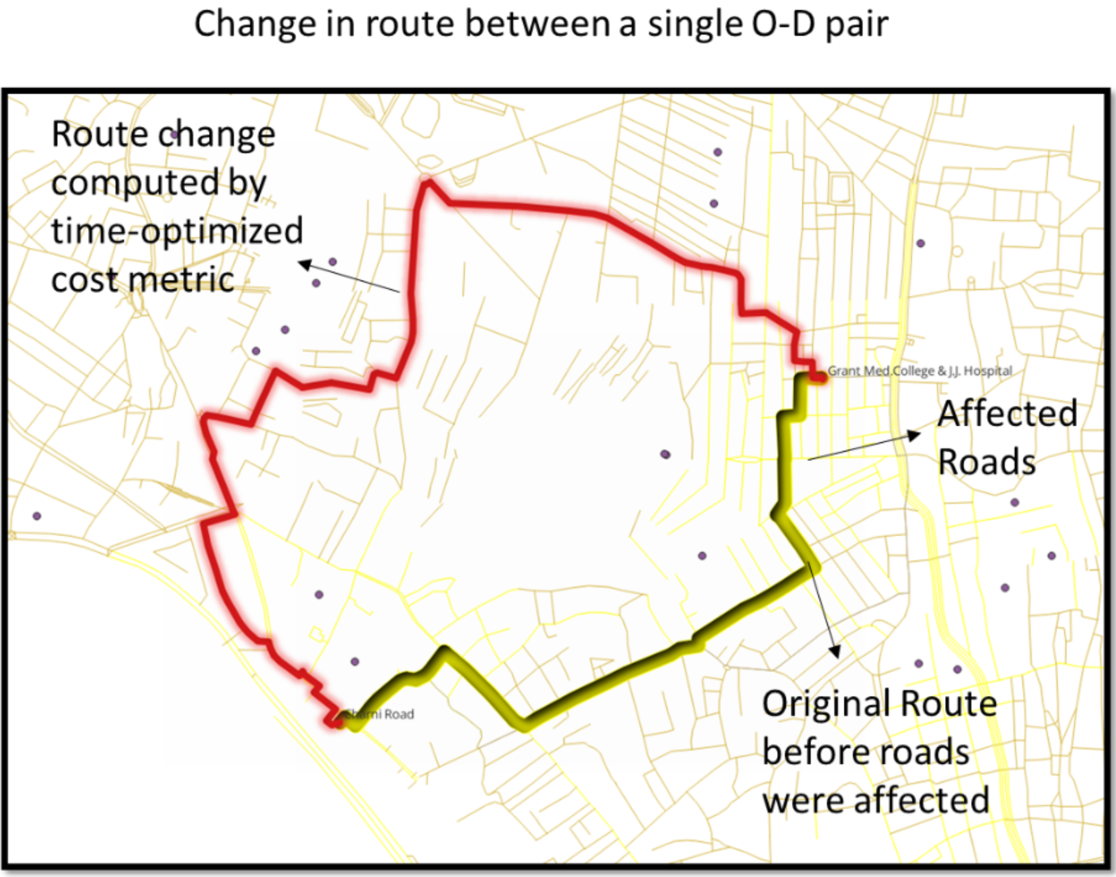
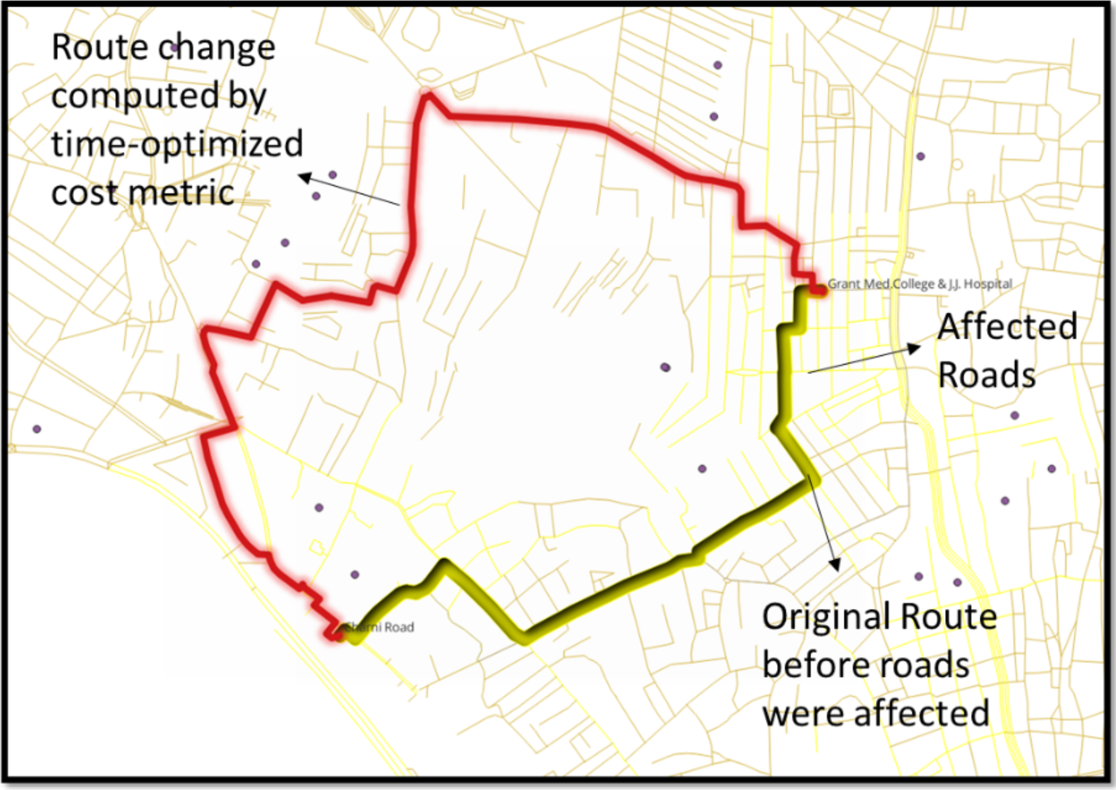
updated projects section

diff --git a/src/components/InfrastructureSection.tsx b/src/components/InfrastructureSection.tsx
@@ -1,8 +1,8 @@
 "use client";
 
 import { useState, useEffect } from "react";
-import { motion } from "framer-motion";
-import { Check, ChevronLeft, ChevronRight } from "lucide-react";
+import { motion, AnimatePresence } from "framer-motion";
+import { Check, ChevronLeft, ChevronRight, X } from "lucide-react";
 import spatial_sentimentImg from "@/assets/Spatial_Sentiment_Analysis.jpg";
 import SARImg from "@/assets/SAR_based_inundation_mapping.png";
 import LanduseImg from "@/assets/LanduseImpacts_ChangeDetection.png";
@@ -18,36 +18,36 @@ const features = [
 
 const products = [
   {
-    title: "Spatial Sentiment Analysis",
+    title: "Sentiment analysis for hazard detection",
     description:
       "Geospatial NLP and sentiment mapping for supply chain and climate signals.",
     image: spatial_sentimentImg,
   },
   {
-    title: "SAR Based Inundation Mapping",
+    title: "Flood mapping using satellite data",
     description:
-      "SAR Based Inundation Mapping",
+      "Flood mapping using satellite data",
     image: SARImg,
   },
   {
-    title: "Landuse Impacts-Change Detection",
+    title: "Land use change detection",
     description:
-      "Landuse Impacts-Change Detection",
+      "Land use change detection",
     image: LanduseImg,
   },
   {
-    title: "Vulnerability Analysis",
-    description: "Vulnerability Analysis",
+    title: "Risk and vulnerability mapping",
+    description: "Risk and vulnerability mapping",
     image: vulnerabilityImg,
   },
   {
-    title: "Network Analysis",
+    title: "Network analysis for supply chain and transportation",
     description: "Network Analysis",
     image: networkanalysisImg,
   },
   {
-    title: "Food Emotion Analysis",
-    description: "Food Emotion Analysis",
+    title: "Food emotion & customer feedback analytics",
+    description: "Food emotion & customer feedback analytics",
     image: foodsentimentImg,
   }
   
@@ -59,6 +59,7 @@ const MOBILE_BREAKPOINT = 768;
 const InfrastructureSection = () => {
   const [slideIndex, setSlideIndex] = useState(0);
   const [slidesToShow, setSlidesToShow] = useState(1);
+  const [openModalIndex, setOpenModalIndex] = useState<number | null>(null);
 
   useEffect(() => {
     const mq = window.matchMedia(`(min-width: ${MOBILE_BREAKPOINT}px)`);
@@ -145,79 +146,132 @@ const InfrastructureSection = () => {
         </div>
       </div>
 
-      {/* Bottom part: full-width image gallery; mobile: 1 slide + taller height, desktop: 3 slides */}
-      <div className="bg-neutral-950 relative">
-        <div className="overflow-hidden min-h-[55vh] md:min-h-0">
-          <motion.div
-            className="flex flex-nowrap h-full"
-            style={{ width: `${(100 * products.length) / slidesToShow}%` }}
-            animate={{
-              x: `-${(100 * slideIndex) / products.length}%`,
-            }}
-            transition={{ type: "tween", duration: 0.35, ease: "easeInOut" }}
-          >
-            {products.map((product, i) => (
-              <div
-                key={`${product.title}-${i}`}
-                className="flex-shrink-0 overflow-hidden h-full"
-                style={{ width: `${100 / products.length}%` }}
-              >
-                <motion.div
-                  initial={{ opacity: 0, y: 20 }}
-                  whileInView={{ opacity: 1, y: 0 }}
-                  viewport={{ once: true }}
-                  className="group relative w-full h-full min-h-[55vh] md:min-h-0 overflow-hidden"
-                  style={{ aspectRatio: "4/3" }}
-                  whileHover={{ scaleX: 1.04, scaleY: 1 }}
-                  transition={{ duration: 0.25, ease: "easeOut" }}
+      {/* Bottom part: modern image gallery with gaps and hover popup */}
+      <div className="bg-neutral-950 relative py-12 md:py-16">
+        <div className="max-w-7xl mx-auto section-px">
+          <div className="overflow-hidden min-h-[55vh] md:min-h-0 rounded-2xl">
+            <motion.div
+              className="flex flex-nowrap h-full"
+              style={{ width: `${(100 * products.length) / slidesToShow}%` }}
+              animate={{
+                x: `-${(100 * slideIndex) / products.length}%`,
+              }}
+              transition={{ type: "tween", duration: 0.35, ease: "easeInOut" }}
+            >
+              {products.map((product, i) => (
+                <div
+                  key={`${product.title}-${i}`}
+                  className="flex-shrink-0 h-full px-2 md:px-3"
+                  style={{ width: `${100 / products.length}%` }}
                 >
-                  <img
-                    src={(product.image as any).src ?? (product.image as unknown as string)}
-                    alt={product.title}
-                    className="absolute inset-0 w-full h-full object-cover"
-                  />
-                  <div
-                    className="absolute inset-0 bg-gradient-to-t from-black/75 via-black/25 to-transparent"
-                    aria-hidden
-                  />
-                  <div className="absolute inset-0 flex flex-col justify-end p-5 md:p-6">
-                    <h3 className="text-lg md:text-xl font-bold text-white mb-1.5">
+                  <motion.button
+                    type="button"
+                    initial={{ opacity: 0, y: 20 }}
+                    whileInView={{ opacity: 1, y: 0 }}
+                    viewport={{ once: true }}
+                    onClick={() => setOpenModalIndex(i)}
+                    className="group relative w-full h-full overflow-hidden rounded-2xl border border-white/10 bg-neutral-900 shadow-xl min-h-[55vh] md:min-h-[320px] text-left cursor-pointer"
+                    style={{ aspectRatio: "4/3" }}
+                  >
+                    <div className="absolute inset-0 flex items-center justify-center bg-neutral-800 p-2">
+                      <img
+                        src={(product.image as any).src ?? (product.image as unknown as string)}
+                        alt={product.title}
+                        className="max-w-full max-h-full w-auto h-auto object-contain"
+                      />
+                    </div>
+                    <span className="absolute bottom-3 left-3 right-3 text-xs font-medium text-white/95 drop-shadow-lg">
                       {product.title}
-                    </h3>
-                    <p className="text-xs md:text-sm text-white/90 leading-relaxed">
-                      {product.description}
-                    </p>
-                  </div>
-                </motion.div>
-              </div>
-            ))}
-          </motion.div>
-        </div>
+                    </span>
+                  </motion.button>
+                </div>
+              ))}
+            </motion.div>
+          </div>
 
-        {/* Left / Right arrows */}
-        {products.length > slidesToShow && (
-          <>
-            <button
-              type="button"
-              onClick={goPrev}
-              disabled={slideIndex === 0}
-              className="absolute left-4 top-1/2 -translate-y-1/2 z-10 w-11 h-11 rounded-full bg-primary hover:bg-primary/90 disabled:opacity-30 disabled:pointer-events-none flex items-center justify-center text-primary-foreground transition-colors"
-              aria-label="Previous projects"
-            >
-              <ChevronLeft className="w-6 h-6" />
-            </button>
-            <button
-              type="button"
-              onClick={goNext}
-              disabled={slideIndex >= maxIndex}
-              className="absolute right-4 top-1/2 -translate-y-1/2 z-10 w-11 h-11 rounded-full bg-primary hover:bg-primary/90 disabled:opacity-30 disabled:pointer-events-none flex items-center justify-center text-primary-foreground transition-colors"
-              aria-label="Next projects"
-            >
-              <ChevronRight className="w-6 h-6" />
-            </button>
-          </>
-        )}
+          {/* Left / Right arrows */}
+          {products.length > slidesToShow && (
+            <div className="flex justify-center gap-4 mt-8">
+              <button
+                type="button"
+                onClick={goPrev}
+                disabled={slideIndex === 0}
+                className="w-12 h-12 rounded-full bg-white/10 hover:bg-primary border border-white/20 hover:border-primary text-white disabled:opacity-30 disabled:pointer-events-none flex items-center justify-center cursor-pointer transition-colors"
+                aria-label="Previous projects"
+              >
+                <ChevronLeft className="w-6 h-6" />
+              </button>
+              <button
+                type="button"
+                onClick={goNext}
+                disabled={slideIndex >= maxIndex}
+                className="w-12 h-12 rounded-full bg-white/10 hover:bg-primary border border-white/20 hover:border-primary text-white disabled:opacity-30 disabled:pointer-events-none flex items-center justify-center cursor-pointer transition-colors"
+                aria-label="Next projects"
+              >
+                <ChevronRight className="w-6 h-6" />
+              </button>
+            </div>
+          )}
+        </div>
       </div>
+
+      {/* Modal: click to open, close button + outside click to close */}
+      <AnimatePresence>
+        {openModalIndex !== null && (
+          <motion.div
+            initial={{ opacity: 0 }}
+            animate={{ opacity: 1 }}
+            exit={{ opacity: 0 }}
+            className="fixed inset-0 z-50 flex items-center justify-center bg-black/70 backdrop-blur-sm p-4 cursor-pointer"
+            onClick={() => setOpenModalIndex(null)}
+            role="presentation"
+          >
+            <motion.div
+              initial={{ scale: 0.95, opacity: 0 }}
+              animate={{ scale: 1, opacity: 1 }}
+              exit={{ scale: 0.95, opacity: 0 }}
+              transition={{ type: "tween", duration: 0.2 }}
+              className="relative w-full max-w-2xl max-h-[90vh] overflow-hidden rounded-2xl bg-white shadow-2xl cursor-auto flex flex-col"
+              onClick={(e) => e.stopPropagation()}
+              role="dialog"
+              aria-modal="true"
+              aria-label={products[openModalIndex]?.title}
+            >
+              {/* Image container - full image contained */}
+              <div className="flex-1 min-h-0 flex items-center justify-center bg-neutral-100 p-6">
+                <img
+                  src={
+                    (products[openModalIndex]?.image as any)?.src ??
+                    (products[openModalIndex]?.image as unknown as string)
+                  }
+                  alt={products[openModalIndex]?.title ?? ""}
+                  className="max-w-full max-h-[50vh] w-auto h-auto object-contain"
+                />
+              </div>
+
+              {/* Content: title + full description */}
+              <div className="p-6 border-t border-neutral-200 space-y-3">
+                <h3 className="text-xl font-bold text-neutral-900">
+                  {products[openModalIndex]?.title}
+                </h3>
+                <p className="text-sm text-neutral-600 leading-relaxed">
+                  {products[openModalIndex]?.description}
+                </p>
+              </div>
+
+              {/* Close button */}
+              <button
+                type="button"
+                onClick={() => setOpenModalIndex(null)}
+                className="absolute right-3 top-3 h-10 w-10 rounded-full bg-white/90 hover:bg-white border border-neutral-200 flex items-center justify-center text-neutral-600 hover:text-neutral-900 cursor-pointer transition-colors"
+                aria-label="Close"
+              >
+                <X className="h-5 w-5" />
+              </button>
+            </motion.div>
+          </motion.div>
+        )}
+      </AnimatePresence>
     </section>
   );
 };

diff --git a/src/components/ServicesSection.tsx b/src/components/ServicesSection.tsx
@@ -7,10 +7,10 @@ import enterpriseImg from "@/assets/enterprise.jpg";
 
 const services = [
   {
-    title: "Market Signal Intelligence",
-    caption: "Unlock your business potential",
+    title: "Market Insights",
+    caption: "Unlock your business\npotential",
     description:
-      "We collect and analyse information from news, social media, and reports to help you see changes in demand, customer sentiment, and market trends early. This helps you take faster and more confident business decisions.",
+      "Consumer sentiment is a key indicator of product absorption among clients, and its early identification can enhance sales.  We collect and analyse information from feedback data, news, social media, and reports to help you see changes in demand, customer sentiment, and market trends early. This helps you make faster, more confident business decisions.",
     link: "Learn more",
     image: marketsignaImgl,
     stats: [],
@@ -19,7 +19,7 @@ const services = [
     title: "Climate Risk Assessment",
     caption: "Spatially map hazard risk and impact on infrastructure systems",
     description:
-      "Hazard modelling, disruption simulation, risk assessment, and resilience benchmarking are integrated into business workflows and supply chain assessments. We aim to help businesses improve their operational efficiency.",
+      "Supply chains are exposed to climate risks, and their efficiency is affected by natural hazards. We thus integrate hazard modelling, disruption simulation, risk assessment, and resilience benchmarking into business workflows and supply chain management. We aim to help businesses improve their operational efficiency.",
     link: "Learn more",
     image: climateriskImg,
     stats: [],
@@ -28,14 +28,14 @@ const services = [
     title: "Decision Dashboards",
     caption: "Analytics, forecasts, and climatic risk info in one place",
     description:
-      "Easy-to-use dashboards that show sales trends, supply chain performance, and climate-related risks clearly. View forecasts, track operations, and plan better — all customised to your business needs. Ideal for food companies, supply chain businesses, and FMCG firms that want simple, clear, and practical insights.",
+      "We integrate analytics in dashboards that show sales trends, supply chain performance, and climate-related risks clearly. View forecasts, track operations, and plan better — all customised to your business needs. Ideal for food companies, supply chain businesses, and FMCG firms that want simple, clear, and practical insights.",
     link: "Learn more",
     image: dashboardImg,
     stats: [],
   },
   {
     title: "Proof of Concepts (PoCs)",
-    caption: "Innovation that drives business",
+    caption: "Innovation that drives \nbusiness",
     description:
       "We collaborate with companies to build practical solutions that strengthen supply chains, reduce climate-related risks, and transform complex data into actionable insights.",
     link: "Learn more",
@@ -120,7 +120,7 @@ const ServicesSection = () => {
                 </h3>
 
                 {service.caption && (
-                  <p className="text-sm text-neutral-400 leading-relaxed italic">
+                  <p className="text-sm text-neutral-400 leading-relaxed italic whitespace-pre-line">
                     {service.caption}
                   </p>
                 )}

diff --git a/src/components/KnowledgePartnersSection.tsx b/src/components/KnowledgePartnersSection.tsx
@@ -3,11 +3,10 @@
 import { motion } from "framer-motion";
 
 const PARTNERS: { slug: string; ext?: string }[] = [
-  { slug: "IITB" },
+
   { slug: "CCS_IITB" },
   // NOTE: Filenames in /public/partners are case-sensitive on Cloudflare (Linux).
   // Keep `slug` matching the exact filename (without extension).
-  { slug: "hdfc", ext: "webp" },
   { slug: "amazing", ext: "jpg" },
   { slug: "aurassure" },
   { slug: "weatherex" },
